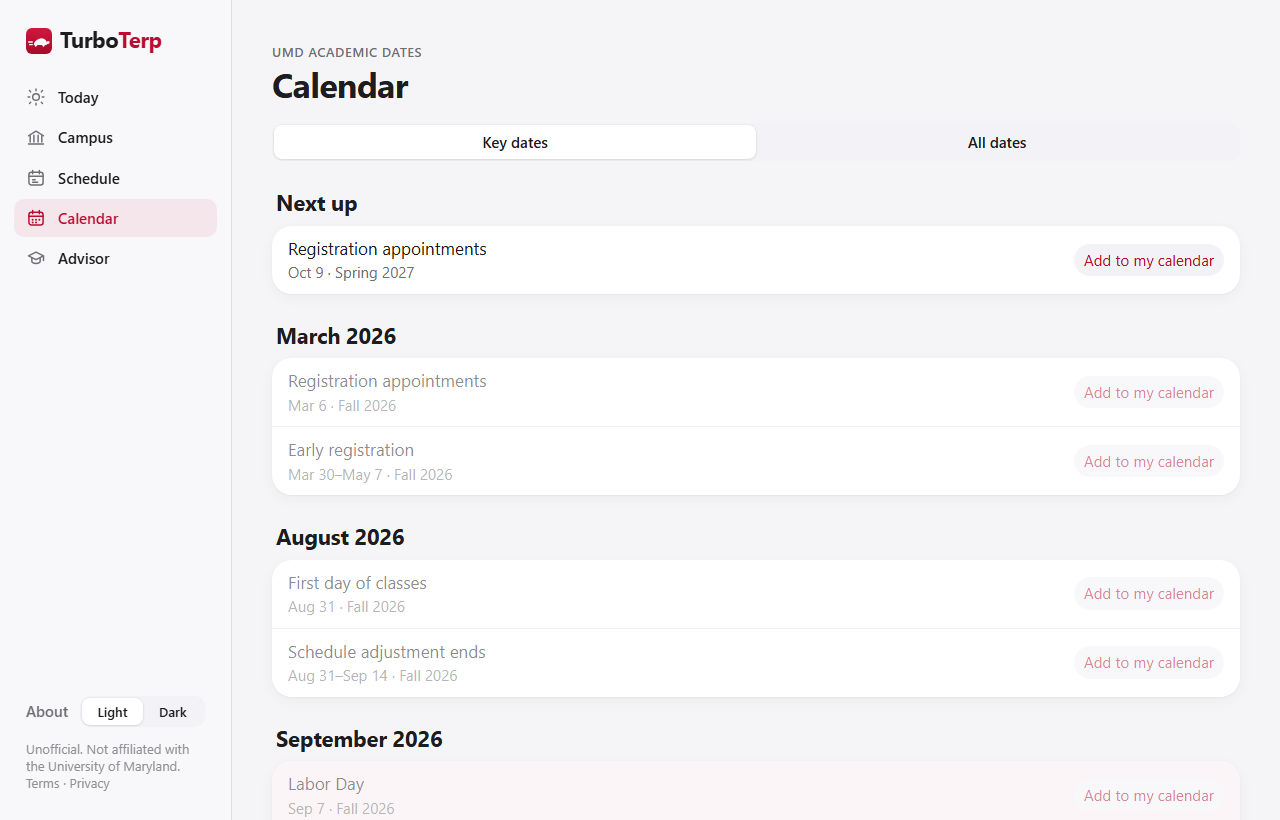
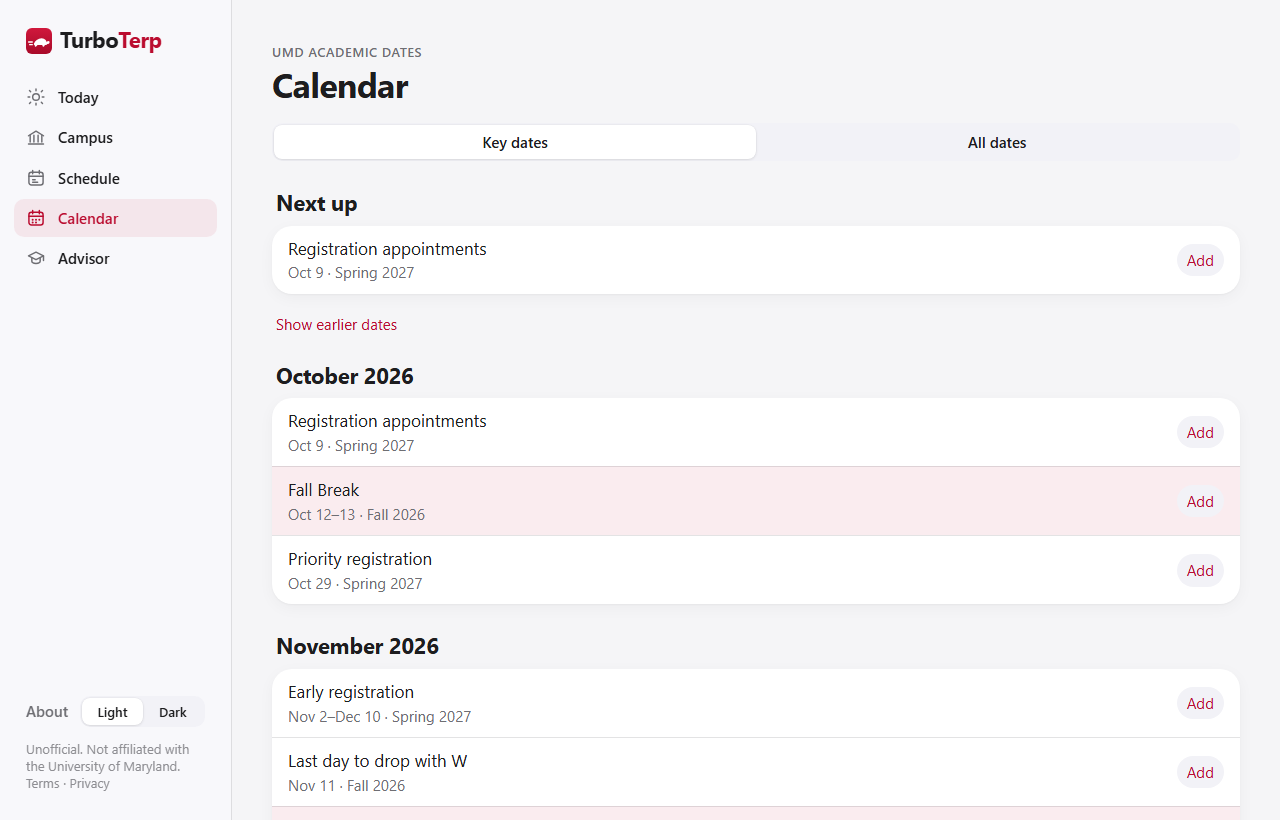
Calendar review fixes: earlier dates tucked away, priority registration is key, compact Add

diff --git a/apps/web/app/calendar/CalendarView.tsx b/apps/web/app/calendar/CalendarView.tsx
@@ -4,7 +4,7 @@ import { useState } from "react";
 import type { AcademicEvent } from "@turboterp/campus-data";
 import { Segmented } from "@/components/Segmented";
 import { Card, Row, Section } from "@/components/ui";
-import { eventTitle, formatEventDate, groupByMonth, isHighlighted, isKeyEvent, nextEvent } from "@/lib/calendar";
+import { eventTitle, formatEventDate, groupByMonth, isHighlighted, isKeyEvent, isPast, nextEvent } from "@/lib/calendar";
 import { allDayIcs } from "@/lib/schedule/ics";
 import styles from "./calendar.module.css";
 
@@ -22,7 +22,7 @@ function download(e: AcademicEvent) {
 }
 
 function DateRow({ e, today }: { e: AcademicEvent; today: string }) {
-  const past = (e.end ?? e.start) < today;
+  const past = isPast(e, today);
   return (
     <div className={`${styles.item} ${isHighlighted(e) ? styles.highlight : ""} ${past ? styles.past : ""}`}>
       <Row
@@ -30,7 +30,7 @@ function DateRow({ e, today }: { e: AcademicEvent; today: string }) {
         subtitle={`${formatEventDate(e)} · ${e.term}`}
         trailing={
           <button type="button" className={styles.add} onClick={() => download(e)} aria-label={`Add ${eventTitle(e)} to my calendar`}>
-            Add to my calendar
+            Add
           </button>
         }
       />
@@ -40,8 +40,12 @@ function DateRow({ e, today }: { e: AcademicEvent; today: string }) {
 
 export function CalendarView({ events, today }: { events: AcademicEvent[]; today: string }) {
   const [mode, setMode] = useState<Mode>("key");
-  const shown = mode === "key" ? events.filter(isKeyEvent) : events;
-  const next = nextEvent(shown, today);
+  // Dates already behind us stay out of the way until asked for.
+  const [earlier, setEarlier] = useState(false);
+  const inMode = mode === "key" ? events.filter(isKeyEvent) : events;
+  const hasEarlier = inMode.some((e) => isPast(e, today));
+  const shown = earlier ? inMode : inMode.filter((e) => !isPast(e, today));
+  const next = nextEvent(inMode, today);
   return (
     <>
       <Segmented
@@ -59,6 +63,11 @@ export function CalendarView({ events, today }: { events: AcademicEvent[]; today
             <DateRow e={next} today={today} />
           </Card>
         </Section>
+      ) : null}
+      {hasEarlier ? (
+        <button type="button" className={styles.earlier} onClick={() => setEarlier(!earlier)}>
+          {earlier ? "Hide earlier dates" : "Show earlier dates"}
+        </button>
       ) : null}
       {groupByMonth(shown).map((g) => (
         <Section key={g.key} title={g.title}>

diff --git a/apps/web/lib/__tests__/calendar.test.ts b/apps/web/lib/__tests__/calendar.test.ts
@@ -1,6 +1,6 @@
 import { describe, expect, it } from "vitest";
 import type { AcademicEvent } from "@turboterp/campus-data";
-import { dedupeEvents, formatKeyDates, groupByMonth, isHighlighted, isKeyEvent, nextEvent, termKeyDates } from "../calendar";
+import { dedupeEvents, formatKeyDates, groupByMonth, isHighlighted, isKeyEvent, isPast, nextEvent, termKeyDates } from "../calendar";
 
 const ev = (kind: AcademicEvent["kind"], start: string, end?: string, term = "Spring 2027"): AcademicEvent => ({
   term,
@@ -117,5 +117,40 @@ describe("nextEvent", () => {
     expect(nextEvent(list, "2026-10-16")?.label).toBe("Fall Break");
     expect(nextEvent(list, "2026-10-17")?.label).toBe("Thanksgiving Break");
     expect(nextEvent(list, "2027-01-01")).toBeUndefined();
+  });
+});
+
+describe("calendar tab, review fixes", () => {
+  const labelled = (kind: AcademicEvent["kind"], label: string, start: string, end?: string, term = "Fall 2026"): AcademicEvent => ({
+    term,
+    kind,
+    label,
+    start,
+    ...(end ? { end } : {}),
+  });
+
+  it("keeps priority registration as a key date although its label mentions graduate students", () => {
+    const e = labelled("priority-registration", "Priority registration and graduate student registration begins", "2026-10-29");
+    expect(isKeyEvent(e)).toBe(true);
+  });
+
+  it("names the later term when the same event is listed under two terms", () => {
+    const merged = dedupeEvents([
+      labelled("other", "Commencement", "2027-05-23", "2027-05-26", "Fall 2026"),
+      labelled("other", "Commencement", "2027-05-24", undefined, "Fall 2026"),
+      labelled("other", "Commencement", "2027-05-23", "2027-05-26", "Spring 2027"),
+    ]);
+    expect(merged).toEqual([labelled("other", "Commencement", "2027-05-23", "2027-05-26", "Spring 2027")]);
+  });
+
+  it("splits finished dates from the ones still ahead or under way", () => {
+    const list = [
+      labelled("first-day", "First day of classes", "2026-08-31"),
+      labelled("other", "Fall Break", "2026-10-12", "2026-10-13"),
+      labelled("finals", "Final exams", "2026-12-14", "2026-12-21"),
+    ];
+    expect(isPast(list[0]!, "2026-10-13")).toBe(true);
+    expect(isPast(list[1]!, "2026-10-13")).toBe(false);
+    expect(isPast(list[2]!, "2026-10-13")).toBe(false);
   });
 });

diff --git a/apps/web/lib/calendar.ts b/apps/web/lib/calendar.ts
@@ -64,8 +64,8 @@ const HIGHLIGHT_OTHER = /break|holiday|recess|labor day|thanksgiving|martin luth
 
 /** Dates most students care about: breaks, holidays, class start/end, finals, registration, key deadlines. */
 export function isKeyEvent(e: AcademicEvent): boolean {
-  if (NOT_KEY.test(e.label)) return false;
-  return e.kind === "other" ? KEY_OTHER.test(e.label) : true;
+  // Every classified kind is a key date; NOT_KEY only weeds out "other" rows.
+  return e.kind !== "other" || (KEY_OTHER.test(e.label) && !NOT_KEY.test(e.label));
 }
 
 /** Breaks, holidays and finals stand out in the list. */
@@ -73,13 +73,34 @@ export function isHighlighted(e: AcademicEvent): boolean {
   return e.kind === "finals" || (e.kind === "other" && HIGHLIGHT_OTHER.test(e.label));
 }
 
-/** Drops repeats of the same event (same label, overlapping dates), keeping the one with a range. */
+const SEASONS = ["winter", "spring", "summer", "fall"];
+
+/** "Spring 2027" sorts after "Fall 2026". */
+function termRank(term: string): number {
+  const [season = "", year = "0"] = term.toLowerCase().split(" ");
+  return Number(year) * 10 + SEASONS.indexOf(season);
+}
+
+/** Finished before `today` (an event still under way is not past). */
+export function isPast(e: AcademicEvent, today: string): boolean {
+  return endOf(e) < today;
+}
+
+/**
+ * Drops repeats of the same event (same label, overlapping dates), keeping the widest range.
+ * The registrar lists some dates under two terms (Commencement); the later term is named.
+ */
 export function dedupeEvents(events: AcademicEvent[]): AcademicEvent[] {
   const out: AcademicEvent[] = [];
   for (const e of [...events].sort(byStart)) {
     const i = out.findIndex((o) => o.label === e.label && e.start <= endOf(o));
-    if (i < 0) out.push(e);
-    else if (endOf(e) > endOf(out[i]!)) out[i] = { ...e, start: out[i]!.start };
+    if (i < 0) {
+      out.push(e);
+      continue;
+    }
+    const kept = out[i]!;
+    const widest = endOf(e) > endOf(kept) ? { ...e, start: kept.start } : kept;
+    out[i] = { ...widest, term: termRank(e.term) > termRank(kept.term) ? e.term : kept.term };
   }
   return out;
 }

diff --git a/apps/web/app/calendar/calendar.module.css b/apps/web/app/calendar/calendar.module.css
@@ -21,11 +21,13 @@
   white-space: nowrap;
 }
 
-@media (max-width: 520px) {
-  .add {
-    max-width: 92px;
-    white-space: normal;
-    text-align: center;
-    line-height: 1.2;
-  }
+.earlier {
+  display: block;
+  margin: 20px 0 0;
+  padding: 0 4px;
+  border: 0;
+  background: none;
+  color: var(--accent);
+  font: var(--t-sub);
+  cursor: pointer;
 }
